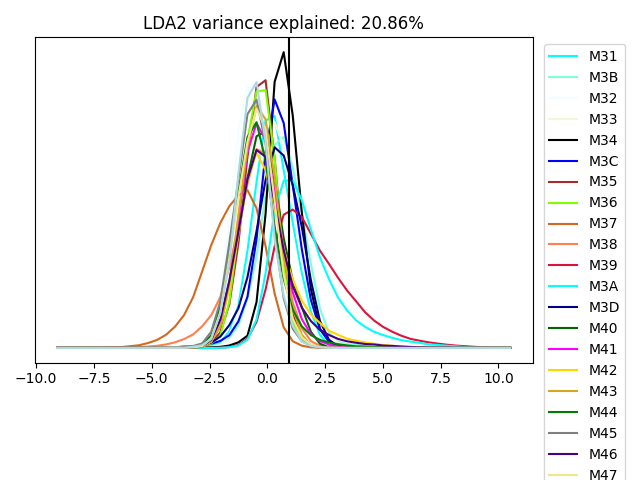
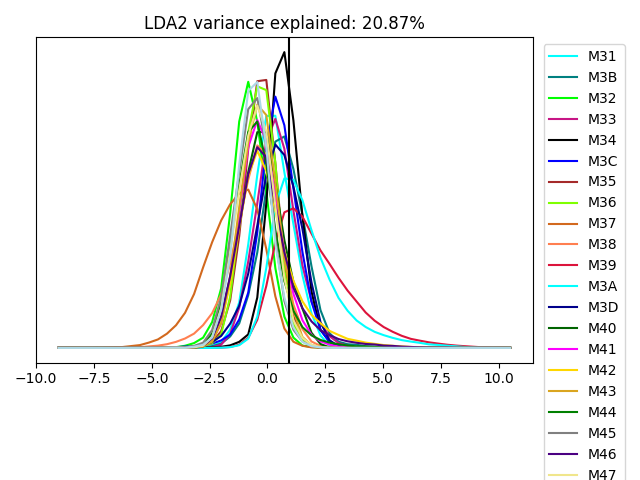
improve LDA figure

diff --git a/ABC/lda.py b/ABC/lda.py
@@ -84,7 +84,7 @@ Xn = lda.transform(X)
 obs_proj = lda.transform([obs_v])
 
 # make 2D plots
-fig, axes = pyplot.subplots(nrow, ncol, figsize=(ncol*6.4, nrow*4.8), squeeze=False)
+fig, axes = pyplot.subplots(nrow, ncol, figsize=((ncol+0.25)*6.4, nrow*4.8), squeeze=False)
 for i in range(nrow):
     for j in range(ncol):
         if  plan[i][j] == 0:
@@ -141,10 +141,9 @@ for i in range(nrow):
 for mod in models:
     col, symb = cfg['models'][mod]
     axes[0][-1].plot([], [], mec=col, marker=symb, mfc='None', ls='None', label=mod)
-axes[0][j].plot([], [], marker='*', ms=10, mfc='w', mec='k', label='obs')
-axes[0][-1].legend(bbox_to_anchor=(1.1,0.5))
-
-fig.tight_layout(pad=cfg['lda']['pad'])
+axes[0][j].plot([], [], marker='*', ls='None', ms=10, mfc='w', mec='k', label='obs')
+fig.legend(loc='center right', bbox_to_anchor=(0.95, 0.5))
+fig.tight_layout(rect=(0, 0, 0.8, 1))  #pad=cfg['lda']['pad']
 fig.savefig(dst / 'lda.png')
 pyplot.close(fig)
 
